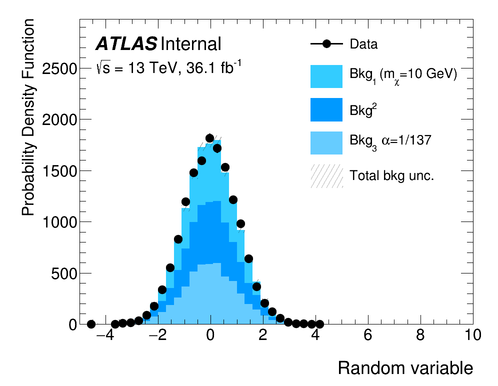
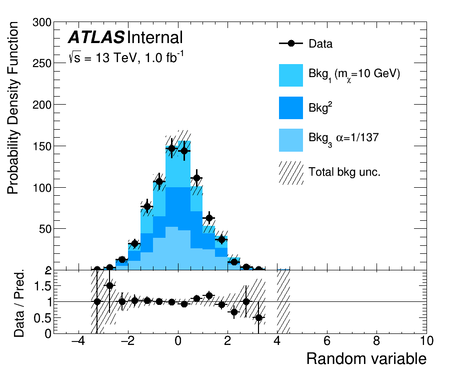
Update examples according to last code moficiations

Changed region(s): [[0.0, 0.0311, 0.9666, 0.9948]]

diff --git a/example/example.py b/example/example.py
@@ -21,7 +21,7 @@ bkg_color = {
 # ======= CREATE HISTOGRAMS TO RUN THE EXAMPLE ======
 def get_random_histo(name):
     global counter
-    h=ROOT.TH1F(name,name,25,-5,10)
+    h=ROOT.TH1F(name,name,30,-5,10)
     h.FillRandom('gaus',250)
     h.SetName(h.GetName()+'_tmp{}'.format(counter))
     counter+=1

diff --git a/README.md b/README.md
@@ -79,6 +79,7 @@ which is often required during the approval process of a publication.
 
 **Canvas properties**
 
+   + `canvas` *[TCanvas]* on which to perform the plots
    + `plot_ratio` *[boolean]* to plot or not the ratio panel
    + `is_logy` *[boolean]* to plot in log scale or not
    + `can_ratio` *[float]* specify the canvas size such as `width=900/ratio` and `height=800`
